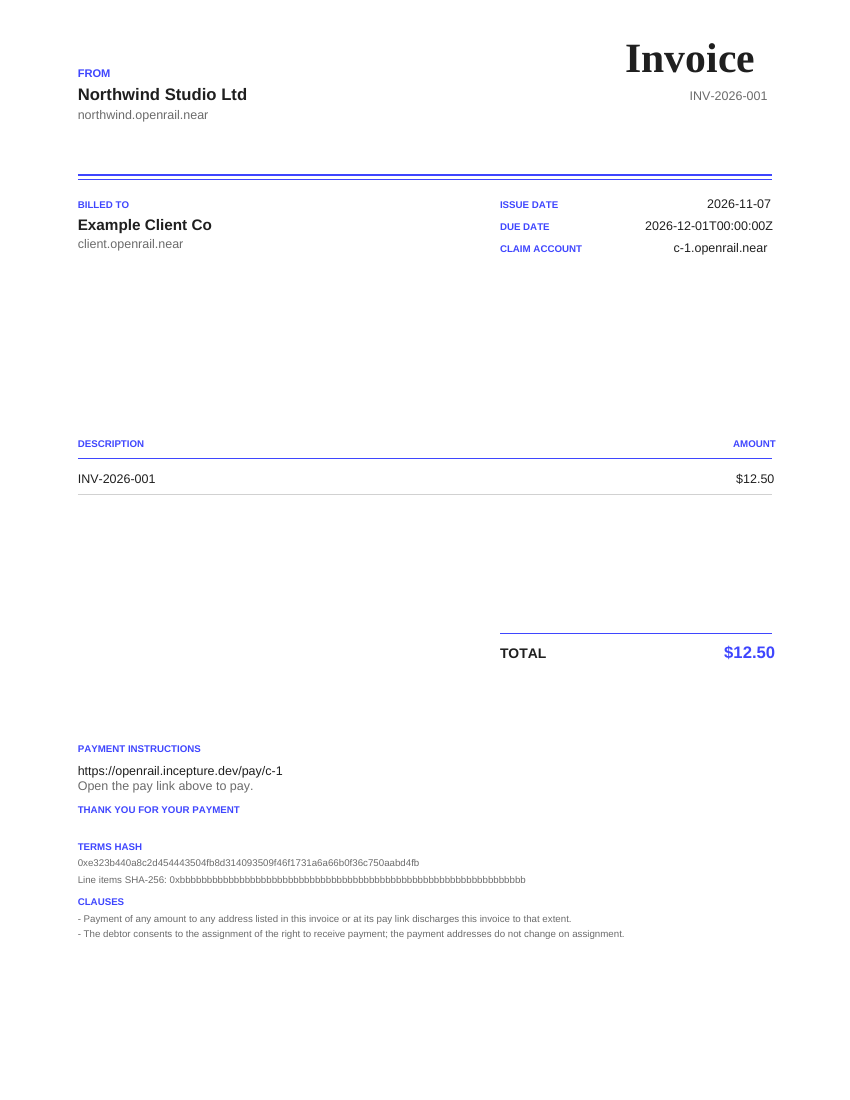
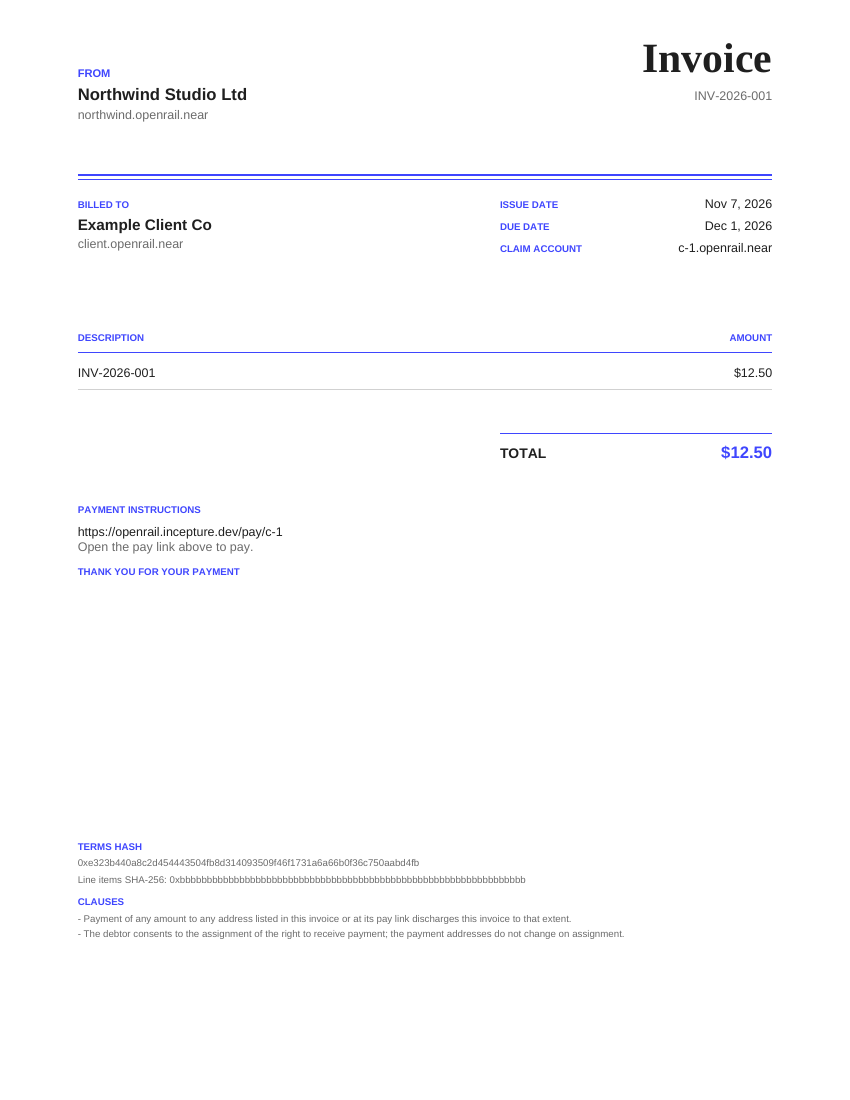
api: tighten PDF dates, alignment and spacing; refresh preview

diff --git a/services/api/src/pdf.ts b/services/api/src/pdf.ts
@@ -13,11 +13,12 @@ const PAGE_HEIGHT = 792;
 const MARGIN = 56;
 const RIGHT = PAGE_WIDTH - MARGIN;
 const WIDTH = RIGHT - MARGIN;
+export const RIGHT_EDGE = RIGHT;
 const ACCENT = "0.247 0.275 0.996";
 const INK = "0.12 0.12 0.12";
 const GRAY = "0.42 0.42 0.42";
 
-type Font = "/F1" | "/F2" | "/F3" | "/F4";
+export type Font = "/F1" | "/F2" | "/F3" | "/F4";
 
 interface PageBuilder {
   pages: string[];
@@ -34,38 +35,75 @@ function escapePdfText(value: string): string {
     .replace(/\)/g, "\\)");
 }
 
-/** A deterministic approximation of the standard-font width; only layout depends on it. */
-function textWidth(value: string, size: number): number {
-  let units = 0;
-  for (const char of value) {
-    if ("il.,'!:;|".includes(char)) units += 0.28;
-    else if ("mwMW@".includes(char)) units += 0.82;
-    else if (char === " ") units += 0.27;
-    else if (char >= "A" && char <= "Z") units += 0.64;
-    else units += 0.52;
-  }
-  return units * size;
+const MONTHS = ["Jan", "Feb", "Mar", "Apr", "May", "Jun", "Jul", "Aug", "Sep", "Oct", "Nov", "Dec"];
+
+function formatDate(iso: string): string {
+  const match = /^(\d{4})-(\d{2})-(\d{2})/.exec(iso);
+  if (match === null) return "—";
+  const year = Number(match[1]);
+  const month = Number(match[2]);
+  const day = Number(match[3]);
+  if (month < 1 || month > 12 || day < 1 || day > 31) return "—";
+  return `${MONTHS[month - 1]} ${day}, ${year}`;
 }
 
-function wrapText(value: string, maxWidth: number, size: number): string[] {
+// Adobe standard-font widths (per 1000 em) for the printable ASCII range. Keeping these
+// lets right-aligned text end on the same x as the rules without embedding a font.
+const HELVETICA = [
+  278, 278, 355, 556, 556, 889, 667, 191, 333, 333, 389, 584, 278, 333, 278, 278, 556, 556, 556,
+  556, 556, 556, 556, 556, 556, 556, 278, 278, 584, 584, 584, 556, 1015, 667, 667, 722, 722, 667,
+  611, 778, 722, 278, 500, 667, 556, 833, 722, 778, 667, 778, 722, 667, 611, 722, 667, 944, 667,
+  667, 611, 278, 278, 278, 469, 556, 333, 556, 556, 500, 556, 556, 278, 556, 556, 222, 222, 500,
+  222, 833, 556, 556, 556, 556, 333, 500, 278, 556, 500, 722, 500, 500, 500, 334, 260, 334, 584,
+];
+const HELVETICA_BOLD = [
+  278, 333, 474, 556, 556, 889, 722, 238, 333, 333, 389, 584, 278, 333, 278, 278, 556, 556, 556,
+  556, 556, 556, 556, 556, 556, 556, 333, 333, 584, 584, 584, 611, 975, 722, 722, 722, 722, 667,
+  611, 778, 722, 278, 556, 722, 611, 833, 722, 778, 667, 778, 722, 667, 611, 722, 667, 944, 667,
+  667, 611, 333, 278, 333, 584, 556, 333, 556, 611, 556, 611, 556, 333, 611, 611, 278, 278, 556,
+  278, 889, 611, 611, 611, 611, 389, 556, 333, 611, 556, 778, 556, 556, 500, 389, 280, 389, 584,
+];
+const TIMES_BOLD = [
+  250, 333, 555, 500, 500, 1000, 833, 278, 333, 333, 500, 570, 250, 333, 250, 278, 500, 500, 500,
+  500, 500, 500, 500, 500, 500, 500, 333, 333, 570, 570, 570, 500, 930, 722, 667, 722, 722, 667,
+  611, 778, 778, 389, 500, 778, 667, 944, 722, 778, 611, 778, 722, 556, 667, 722, 722, 1000, 722,
+  722, 667, 333, 278, 333, 581, 500, 333, 500, 556, 444, 556, 444, 333, 500, 556, 278, 333, 556,
+  278, 833, 556, 500, 556, 556, 444, 389, 333, 556, 500, 722, 500, 500, 444, 394, 220, 394, 520,
+];
+
+function glyphWidth(font: Font, char: string): number {
+  const code = char.charCodeAt(0);
+  if (code < 0x20 || code > 0x7e) return font === "/F3" ? 500 : 556;
+  const index = code - 0x20;
+  const table = font === "/F2" ? HELVETICA_BOLD : font === "/F3" ? TIMES_BOLD : HELVETICA;
+  return table[index] ?? (font === "/F3" ? 500 : 556);
+}
+
+export function measureTextWidth(font: Font, value: string, size: number): number {
+  let units = 0;
+  for (const char of value) units += glyphWidth(font, char);
+  return (units / 1000) * size;
+}
+
+function wrapText(value: string, maxWidth: number, size: number, font: Font = "/F1"): string[] {
   const words = value.split(/\s+/).filter((word) => word !== "");
   if (words.length === 0) return [""];
   const lines: string[] = [];
   let line = "";
   for (const word of words) {
     const candidate = line === "" ? word : `${line} ${word}`;
-    if (textWidth(candidate, size) <= maxWidth) {
+    if (measureTextWidth(font, candidate, size) <= maxWidth) {
       line = candidate;
       continue;
     }
     if (line !== "") lines.push(line);
-    if (textWidth(word, size) <= maxWidth) {
+    if (measureTextWidth(font, word, size) <= maxWidth) {
       line = word;
       continue;
     }
     let piece = "";
     for (const char of word) {
-      if (textWidth(piece + char, size) > maxWidth && piece !== "") {
+      if (measureTextWidth(font, piece + char, size) > maxWidth && piece !== "") {
         lines.push(piece);
         piece = "";
       }
@@ -103,7 +141,7 @@ function text(
   align: "left" | "right" = "left",
 ): void {
   const escaped = escapePdfText(value);
-  const startX = align === "right" ? x - textWidth(value, size) : x;
+  const startX = align === "right" ? x - measureTextWidth(font, value, size) : x;
   builder.content += `BT\n${font} ${size} Tf\n${color} rg\n1 0 0 1 ${startX.toFixed(2)} ${y.toFixed(2)} Tm\n(${escaped}) Tj\nET\n`;
 }
 
@@ -133,7 +171,7 @@ function wrapped(
   color: string,
   lineHeight = size + 2,
 ): void {
-  for (const part of wrapText(value, maxWidth, size)) {
+  for (const part of wrapText(value, maxWidth, size, font)) {
     text(builder, x, builder.y, size, font, color, part);
     builder.y -= lineHeight;
   }
@@ -141,7 +179,7 @@ function wrapped(
 
 function drawClauses(builder: PageBuilder, terms: Terms, invoice: string): void {
   for (const clause of terms.clauses) {
-    const lines = wrapText(`- ${clause}`, WIDTH, 7);
+    const lines = wrapText(`- ${clause}`, WIDTH, 7, "/F1");
     for (const part of lines) {
       if (builder.y < MARGIN + 14) beginPage(builder, `Invoice ${invoice} (continued)`);
       text(builder, MARGIN, builder.y, 7, "/F1", GRAY, part);
@@ -174,13 +212,11 @@ function drawTop(builder: PageBuilder, terms: Terms, issuedAt?: string): void {
 
   const detailsX = 360;
   let detailY = blockTop;
-  const details: Array<[string, string]> = [];
-  const issueDate = issuedAt?.slice(0, 10);
-  details.push([
-    "ISSUE DATE",
-    issueDate !== undefined && /^\d{4}-\d{2}-\d{2}$/.test(issueDate) ? issueDate : "—",
-  ]);
-  details.push(["DUE DATE", terms.due_date], ["CLAIM ACCOUNT", terms.claim_account]);
+  const details: Array<[string, string]> = [
+    ["ISSUE DATE", issuedAt !== undefined ? formatDate(issuedAt) : "—"],
+    ["DUE DATE", formatDate(terms.due_date)],
+    ["CLAIM ACCOUNT", terms.claim_account],
+  ];
   for (const [caption, value] of details) {
     label(builder, caption, detailsX, detailY);
     text(builder, RIGHT, detailY, 9, "/F1", INK, value, "right");
@@ -190,7 +226,7 @@ function drawTop(builder: PageBuilder, terms: Terms, issuedAt?: string): void {
 }
 
 function drawTable(builder: PageBuilder, terms: Terms): void {
-  builder.y = Math.min(builder.y, 470);
+  builder.y = builder.y - 40;
   const top = builder.y;
   label(builder, "DESCRIPTION", MARGIN, top);
   text(builder, RIGHT, top, 7, "/F2", ACCENT, "AMOUNT", "right");
@@ -214,7 +250,7 @@ function drawTable(builder: PageBuilder, terms: Terms): void {
 
 function drawTotals(builder: PageBuilder, terms: Terms): void {
   const amount = `$${terms.amount_usd}`;
-  builder.y -= 80;
+  builder.y -= 12;
   line(builder, 360, builder.y, RIGHT, builder.y, 1.2, ACCENT);
   builder.y -= 18;
   text(builder, 360, builder.y, 10, "/F2", INK, "TOTAL");
@@ -223,7 +259,7 @@ function drawTotals(builder: PageBuilder, terms: Terms): void {
 }
 
 function drawPayment(builder: PageBuilder, terms: Terms): void {
-  builder.y = Math.min(builder.y - 20, 250);
+  builder.y = builder.y - 16;
   label(builder, "PAYMENT INSTRUCTIONS", MARGIN, builder.y);
   builder.y -= 16;
   wrapped(builder, terms.pay_link, MARGIN, WIDTH, 9, "/F1", INK);

diff --git a/services/api/src/pdf.test.ts b/services/api/src/pdf.test.ts
@@ -1,5 +1,5 @@
 import { describe, expect, it } from "vitest";
-import { renderInvoicePdf } from "./pdf.js";
+import { measureTextWidth, renderInvoicePdf, RIGHT_EDGE } from "./pdf.js";
 import { buildTerms, termsHash } from "./terms.js";
 
 const terms = buildTerms({
@@ -65,7 +65,7 @@ describe("invoice PDF layout contract", () => {
       terms.debtor_legal_name,
       terms.debtor_key,
       terms.amount_usd,
-      terms.due_date,
+      "Dec 1, 2026",
       terms.claim_account,
       terms.pay_link,
       terms.line_items_sha256,
@@ -74,6 +74,16 @@ describe("invoice PDF layout contract", () => {
     ]) {
       expect(pdf).toContain(value.replace(/[()\\]/g, (c) => `\\${c}`));
     }
+  });
+
+  it("formats dates in UTC without a locale lookup", () => {
+    const pdf = content();
+    expect(pdf).toContain("Dec 1, 2026");
+    expect(pdf).not.toContain("2026-12-01T00:00:00Z");
+    const withIssue = Buffer.from(renderInvoicePdf(terms, hash, "2026-11-01T00:00:00Z")).toString(
+      "latin1",
+    );
+    expect(withIssue).toContain("Nov 1, 2026");
   });
 
   it("uses the invoice number as the table description and the terms amount as TOTAL", () => {
@@ -101,6 +111,36 @@ describe("invoice PDF layout contract", () => {
     expect(pdf.trimEnd().endsWith("%%EOF")).toBe(true);
     expect((pdf.match(/\/Type \/Page(?!s)/g) ?? []).length).toBeGreaterThan(1);
     expect(pdf).toContain("Clause 18");
+  });
+
+  it("aligns every right edge to the rule and headings", () => {
+    const pdf = Buffer.from(renderInvoicePdf(terms, hash, "2026-11-01T00:00:00Z")).toString(
+      "latin1",
+    );
+    const fonts = new Map([
+      ["Invoice", ["/F3", 30]],
+      [terms.invoice_number, ["/F1", 9]],
+      ["Nov 1, 2026", ["/F1", 9]],
+      ["Dec 1, 2026", ["/F1", 9]],
+      [terms.claim_account, ["/F1", 9]],
+      ["$12.50", ["/F1", 9]],
+    ] as const);
+    for (const [value, [font, size]] of fonts) {
+      const escaped = value
+        .replace(/[()\\]/g, (c) => `\\${c}`)
+        .replace(/[.*+?^${}()|[\]\\]/g, "\\$&");
+      const match = new RegExp(
+        `/${font.slice(1)} ${size} Tf[\\s\\S]*?1 0 0 1 ([0-9.]+) [0-9.]+ Tm\\n\\(${escaped}\\) Tj`,
+      ).exec(pdf);
+      expect(match, `missing right-aligned text: ${value}`).not.toBeNull();
+      const x = Number(match![1]);
+      expect(Math.abs(x + measureTextWidth(font, value, size) - RIGHT_EDGE), value).toBeLessThan(
+        0.02,
+      );
+    }
+    for (const line of pdf.matchAll(/ (\d+\.\d+) (\d+\.\d+) m (\d+\.\d+) (\d+\.\d+) l S/g)) {
+      if (Number(line[3]) > 100) expect(Number(line[3])).toBeCloseTo(RIGHT_EDGE, 2);
+    }
   });
 
   it("does not overflow with long names or non-Latin text", () => {
